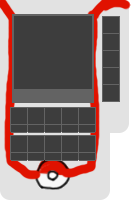
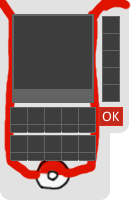
improved cursor function

Changed region(s): [[0.7328, 0.51, 0.9466, 0.63]]

diff --git a/PokemonBattleNetwork.py b/PokemonBattleNetwork.py
@@ -101,7 +101,7 @@ class PokemonEntity():
 				self.invulnTimer = 60
 			
 	def tick(self):
-		if self.invulnTimer > 0:
+		if self.invulnTimer > 0 and gameTickAlias == BattleTick:
 			self.invulnTimer -= 1
 		
 
@@ -295,50 +295,70 @@ def CustomTick():
 		if event.type == pygame.QUIT: 
 			sys.exit()
 		if event.type == pygame.KEYDOWN and event.key == K_RIGHT:
-			cursor += 1
+			if cursor == len(hand)-1:
+				cursor = -1
+			elif cursor==-1:
+				cursor = 0
+			elif cursor%5 == 4:
+				cursor = -1
+			elif cursor<len(hand)-1:
+				cursor += 1
 		if event.type == pygame.KEYDOWN and event.key == K_LEFT:
-			cursor -= 1
+			if cursor==0 or cursor==5:
+				cursor = -1
+			elif cursor==-1:
+				cursor = 4
+			else:
+				cursor -= 1
 		if event.type == pygame.KEYDOWN and event.key == K_UP:
-			cursor -= 5
+			if cursor>=5:
+				cursor -= 5
 		if event.type == pygame.KEYDOWN and event.key == K_DOWN:
-			cursor += 5
+			if cursor>=0 and cursor<len(hand)-5:
+				cursor += 5
 		if event.type == pygame.KEYDOWN and event.key == K_SPACE:
 			#select current chip
-			if len(selectedChips) < 5 and not selected[cursor]:
+			if cursor==-1:
+				#close custom
+				#load selectedChips attacks into attackQueue
+				if selectedChips: #if player selects new chips don't keep ones from last turn
+					attackQueue = []
+				while len(selectedChips) > 0:
+					attackQueue.append(hand[selectedChips.pop()])
+				#remove selected chips from hand
+				newHand = []
+				for i in range(len(hand)):
+					if not selected[i]:
+						newHand.append(hand[i])
+				hand = newHand
+				print("hand =",hand)
+				print("selectedChips =",selectedChips)
+				#refill hand
+				cursor = 0
+				for i in range(customDraw-len(hand)):
+					#print("refilled chip")
+					if(folder):
+						hand.append(folder.pop())
+				print(hand)
+				print("folder =",folder)
+				selected = [False for i in range(customDraw)]
+						
+				gameTickAlias = BattleTick
+			elif len(selectedChips) < 5 and not selected[cursor]:
 				selectedChips.append(cursor) #select chip by adding it's cursor pos to selectedChips
 				selected[cursor] = True
+				
+				
+				
 		if event.type == pygame.KEYDOWN and event.key == K_BACKSPACE:
 			#select current chip
 			if len(selectedChips) > 0:
 				selected[selectedChips.pop()] = False #pop and deselect chip
-		if event.type == pygame.KEYDOWN and event.key == K_r:
-			#load selectedChips attacks into attackQueue
-			if selectedChips: #if player selects new chips don't keep ones from last turn
-				attackQueue = []
-			while len(selectedChips) > 0:
-				attackQueue.append(hand[selectedChips.pop()])
-			#remove selected chips from hand
-			newHand = []
-			for i in range(len(hand)):
-				if not selected[i]:
-					newHand.append(hand[i])
-			hand = newHand
-			print("hand =",hand)
-			print("selectedChips =",selectedChips)
-			#refill hand
-			cursor = 0
-			for i in range(customDraw-len(hand)):
-				#print("refilled chip")
-				if(folder):
-					hand.append(folder.pop())
-			print(hand)
-			print("folder =",folder)
-			selected = [False for i in range(customDraw)]
-					
-			gameTickAlias = BattleTick
+		
+		
+		
 	
-	if cursor < 0 or cursor >= len(hand):
-		cursor = oldCursor
+	
 
 attackAliases = [shootRow, sliceWide]
 player = PokemonEntity((0,1),1)
@@ -351,7 +371,7 @@ attackQueue = []
 attackEntity = AttackEntity((0,0))
 #shuffle folder at beginning of battle
 folder = [0,1,0,1,1,0,1,0,0,1,0,0,0,1,0,0,1,0,0,1,0,0,1,0,0,1,0,0,0,1]
-customDraw = 5 #number of chips to draw each turn
+customDraw = 8 #number of chips to draw each turn
 hand = []
 cursor = 0
 for i in range(customDraw):
@@ -373,7 +393,7 @@ def drawCustom(cursor):
 			chipSprite = chipSpriteSheet.getSpriteById(chip,20,16,16,colorkey=0)
 			chipRect = chipSprite.get_rect()
 			chipRect.left = pos%5*17+11
-			chipRect.top = pos//5*18+108
+			chipRect.top = pos//5*28+108
 			screen.blit(chipSprite,chipRect)
 		pos += 1
 	#draw selectedChips chips
@@ -386,8 +406,13 @@ def drawCustom(cursor):
 		screen.blit(chipSprite,chipRect)
 		pos += 1
 	#draw cursor
-	cursorRect.left = cursor%5*17+10
-	cursorRect.top = cursor//5*28+107
+	if cursor==-1:
+		#replace this with a special cursor to fit OK button
+		cursorRect.left = 5*17+10
+		cursorRect.top = 107
+	else:
+		cursorRect.left = cursor%5*17+10
+		cursorRect.top = cursor//5*28+107
 	screen.blit(cursorSprite, cursorRect)
 	
 	
